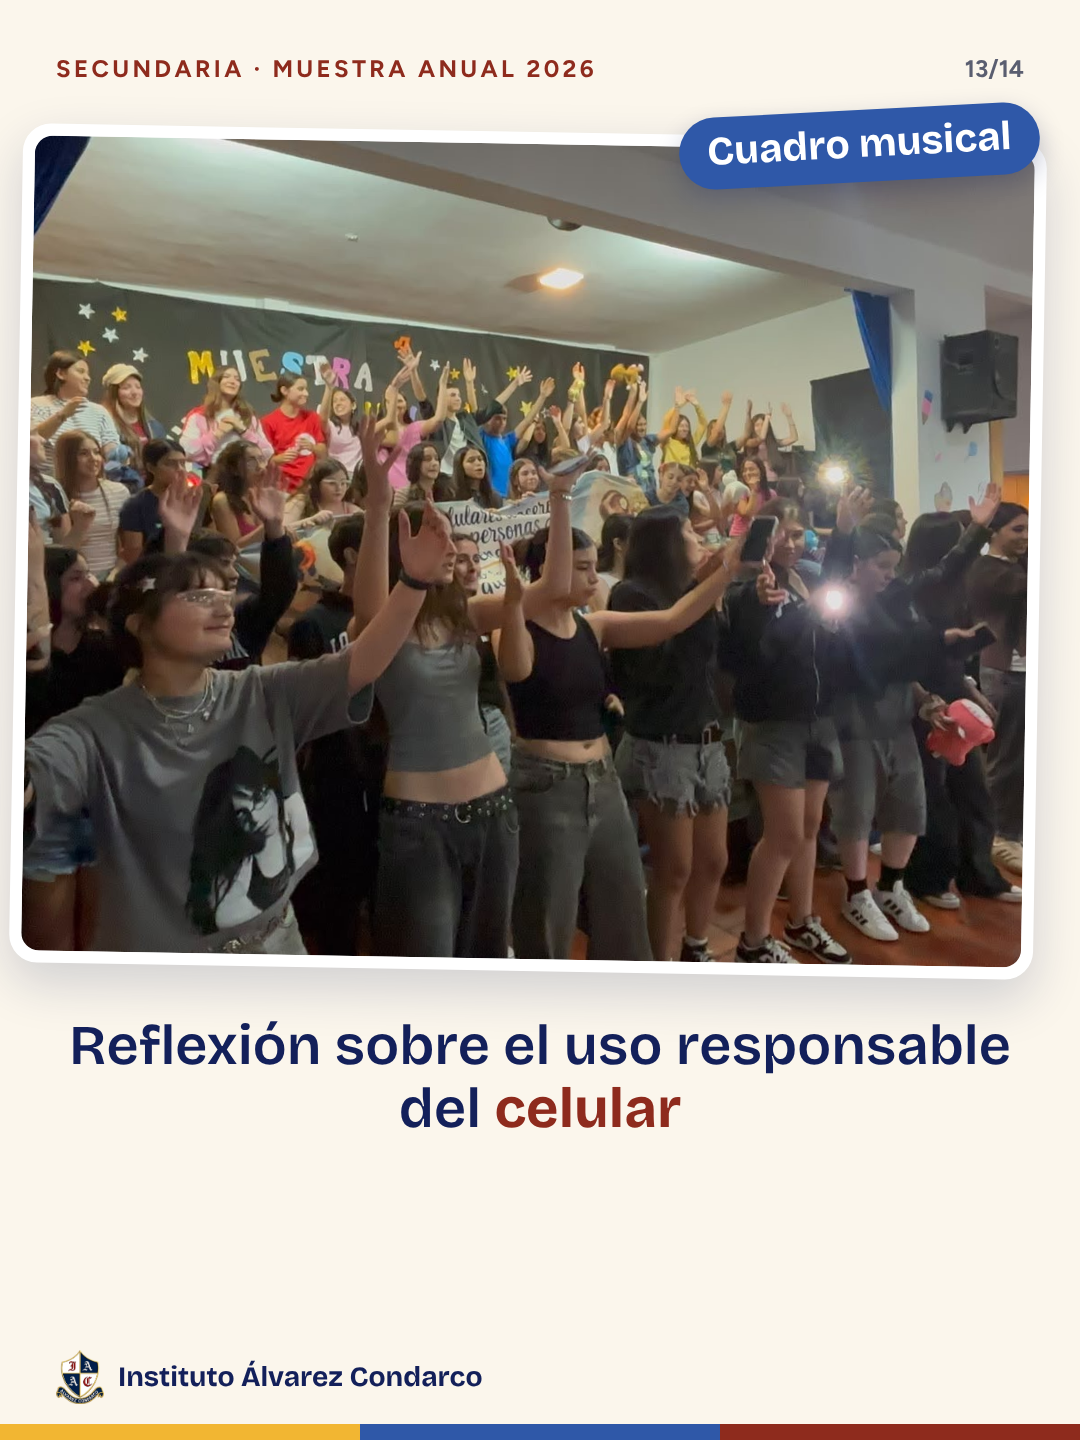
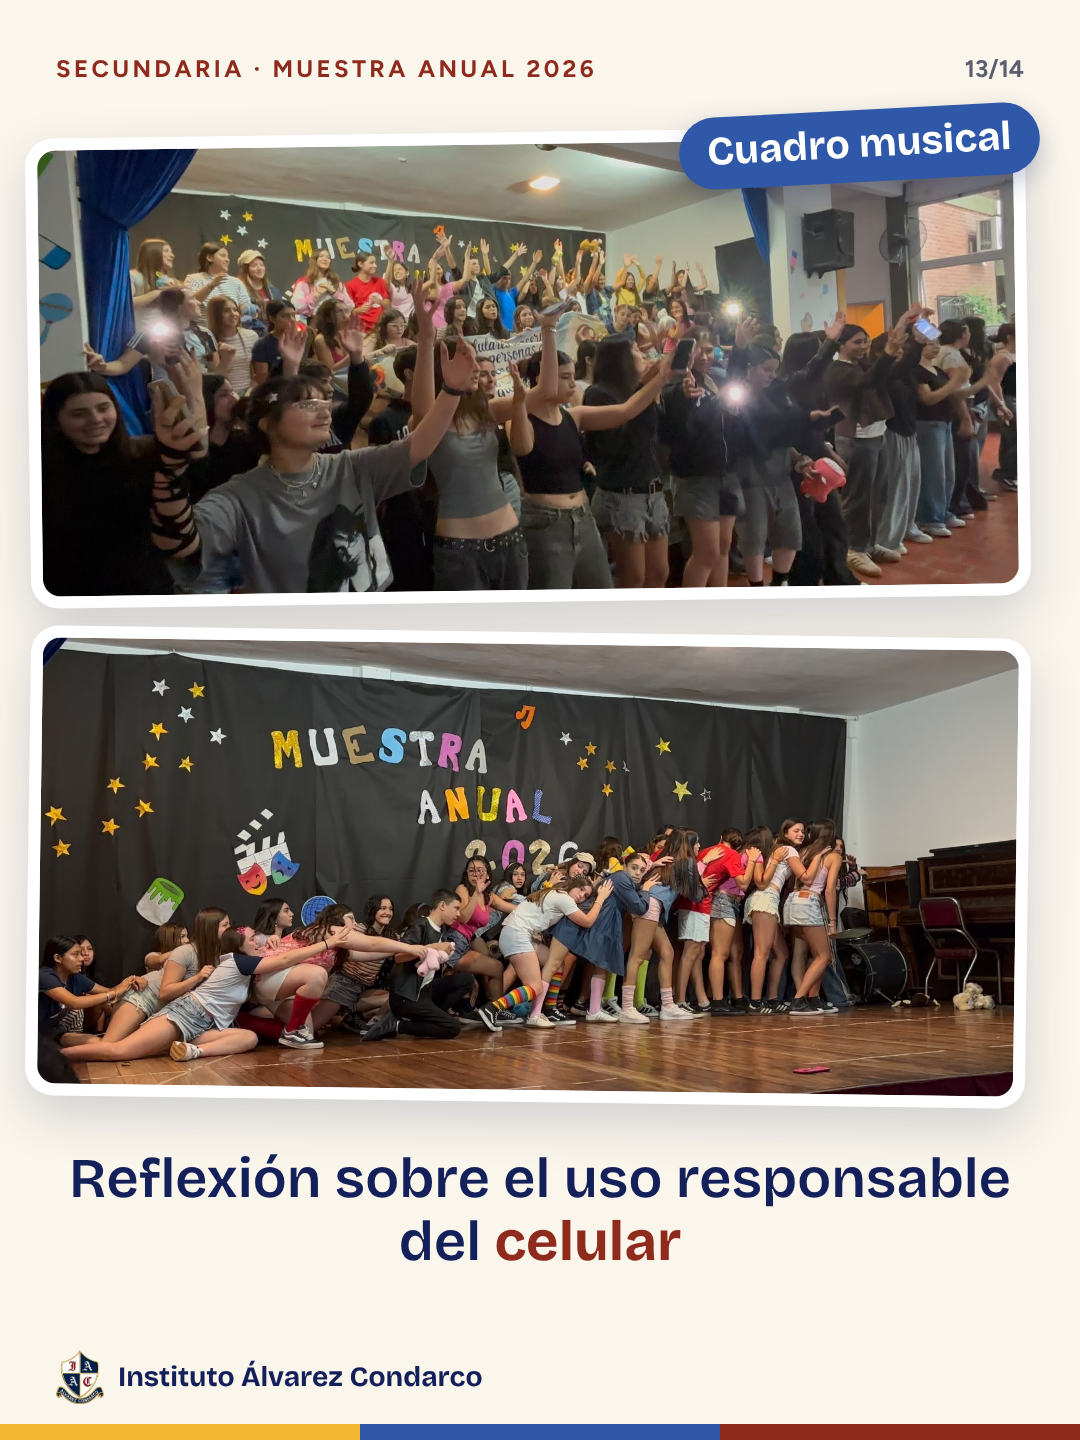
Carrusel Muestra Secundaria: dos fotos en la placa del cuadro musical
Claude-Session: https://claude.ai/code/session_0159ATbsUYcGchepWZZ2HyWK

diff --git a/instagram-reels/src/muestra-sec/PostMuestraSec.tsx b/instagram-reels/src/muestra-sec/PostMuestraSec.tsx
@@ -11,7 +11,7 @@ import {C, DISPLAY, SANS} from '../lib';
 /** Palabra destacada en bordó. */
 const B: React.FC<{children: React.ReactNode}> = ({children}) => <span style={{color: C.bordo, fontWeight: 700}}>{children}</span>;
 
-type Placa = {src: string; w: number; h: number; pos?: string; chip?: string; texto: React.ReactNode; chico?: boolean};
+type Placa = {src: string; src2?: string; w: number; h: number; pos?: string; chip?: string; texto: React.ReactNode; chico?: boolean};
 
 const PLACAS: Placa[] = [
 	{src: '07-acto-natacion.jpg', w: 1200, h: 1600, pos: '50% 50%', chip: 'Video institucional', texto: <>Repasamos el <B>año</B> juntos</>},
@@ -25,7 +25,7 @@ const PLACAS: Placa[] = [
 	{src: '13-lectura.jpg', w: 900, h: 1600, pos: '50% 35%', chip: '¡Medalla de oro!', chico: true, texto: <>Poesía ganadora de la <B>medalla de oro</B> en las Olimpíadas Malvinenses</>},
 	{src: '09-teatro.jpg', w: 1200, h: 1600, pos: '50% 62%', chip: '6.º año', texto: <>Muestra del <B>concert</B> con los alumnos de{'\u00a0'}6.º{'\u00a0'}año</>, chico: true},
 	{src: '14-orquesta.jpg', w: 1600, h: 1200, chip: 'Música', texto: <>Música en <B>vivo</B></>},
-	{src: '15-cierre-celulares.jpg', w: 1600, h: 900, chip: 'Cuadro musical', texto: <>Reflexión sobre el uso responsable del <B>celular</B></>},
+	{src: '15-cierre-celulares.jpg', src2: '18-celular2.jpg', w: 1600, h: 900, chip: 'Cuadro musical', texto: <>Reflexión sobre el uso responsable del <B>celular</B></>},
 ];
 
 const CHIPS: [string, string][] = [
@@ -101,10 +101,19 @@ const PlacaFoto: React.FC<{i: number}> = ({i}) => {
 	const rot = i % 2 ? 1 : -1;
 	const [bg, ink] = CHIPS[i % 3];
 	const vertical = ancho < 900;
-	const textoTop = TOP + alto + (p.chico ? 34 : 44);
+	const doble = Boolean(p.src2);
+	const altoDoble = 470;
+	const textoTop = doble ? TOP + 2 * altoDoble + 40 + 36 : TOP + alto + (p.chico ? 34 : 44);
 	return (
 		<Base n={`${i + 2}/${PLACAS.length + 2}`}>
-			<Foto src={p.src} ancho={ancho} alto={alto} pos={p.pos} top={TOP} rot={rot} />
+			{doble ? (
+				<>
+					<Foto src={p.src} ancho={1000} alto={altoDoble} pos={p.pos} top={TOP} rot={-0.8} />
+					<Foto src={p.src2!} ancho={1000} alto={altoDoble} pos="50% 55%" top={TOP + altoDoble + 30} rot={0.8} />
+				</>
+			) : (
+				<Foto src={p.src} ancho={ancho} alto={alto} pos={p.pos} top={TOP} rot={rot} />
+			)}
 			{p.chip && <div style={{position: 'absolute', top: TOP - 22, [i % 2 ? 'right' : 'left']: vertical ? (1080 - ancho) / 2 - 30 : 40, padding: '10px 28px 14px', borderRadius: 999, background: bg, color: ink, fontFamily: DISPLAY, fontWeight: 700, fontSize: 40, boxShadow: '0 10px 24px rgba(19,32,90,0.25)', transform: `rotate(${-rot * 3}deg)`, whiteSpace: 'nowrap'}}>
 				{p.chip}
 			</div>}
